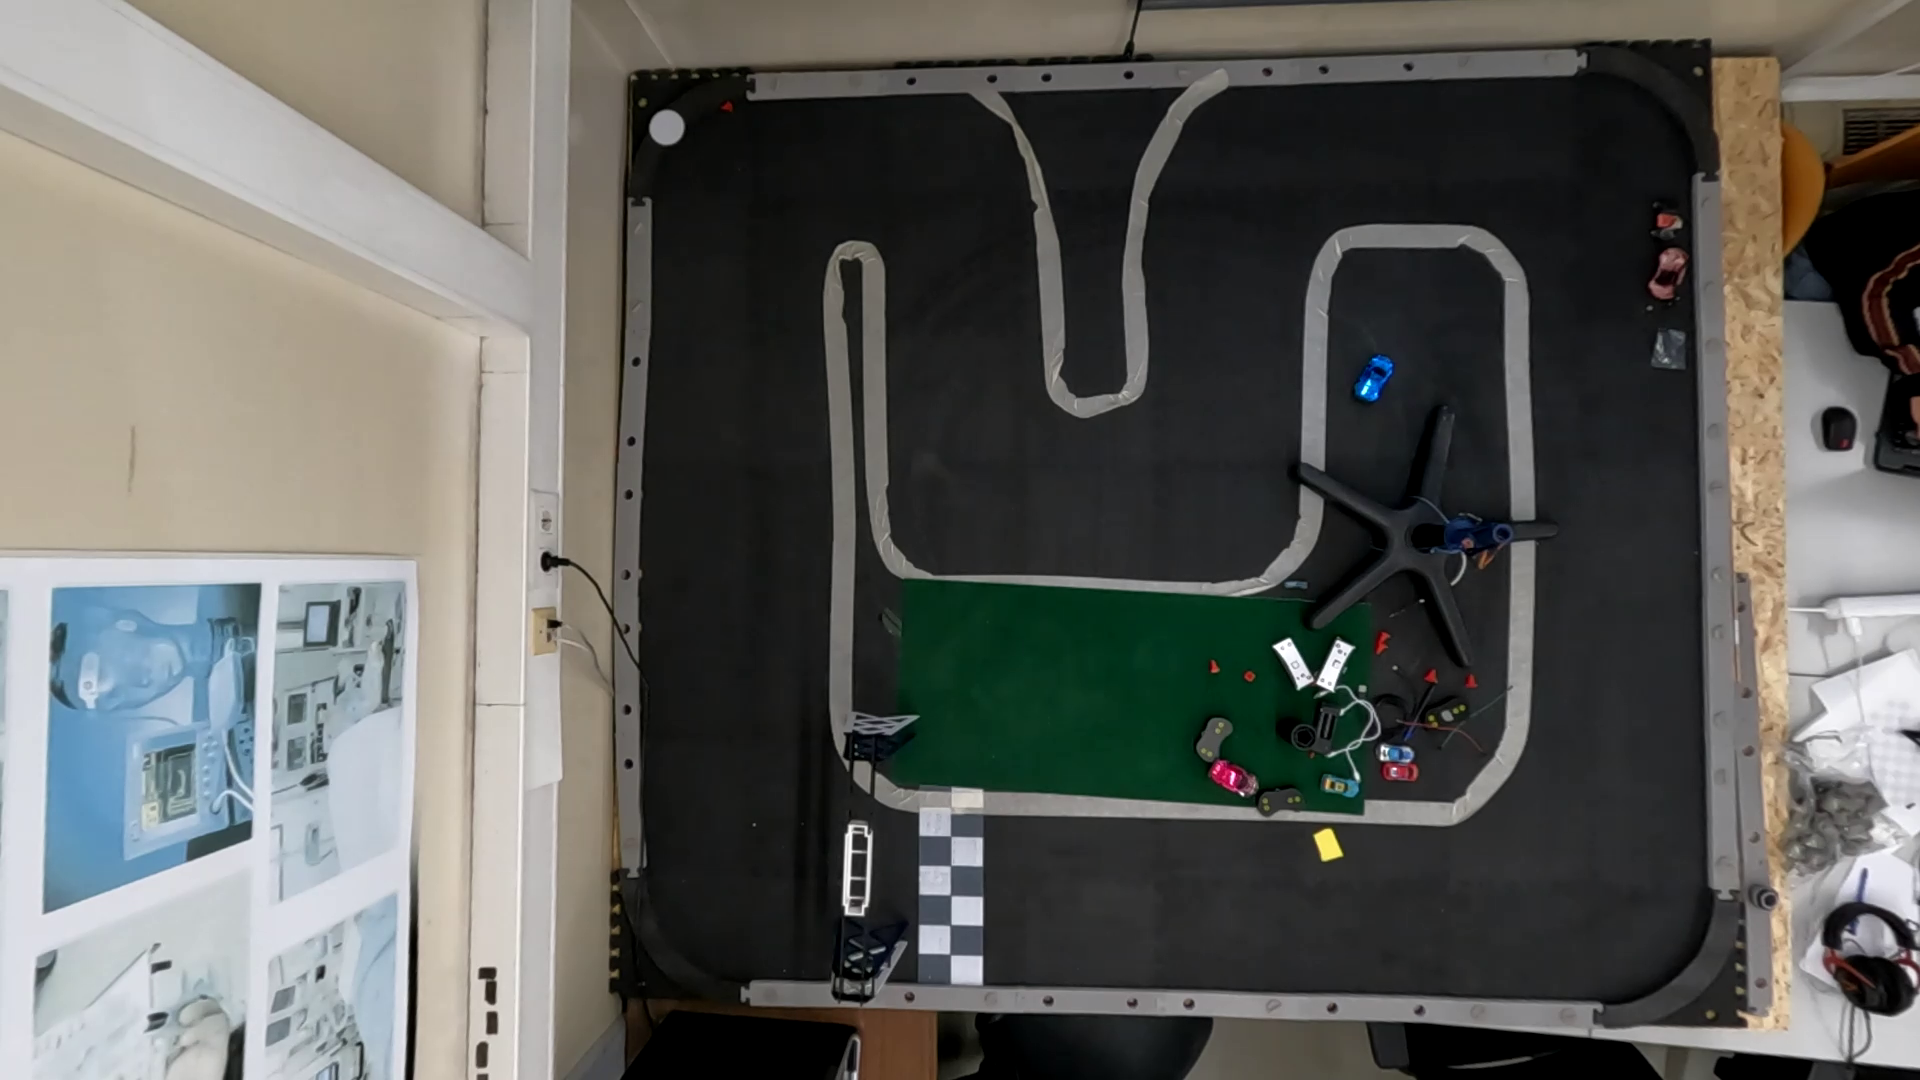
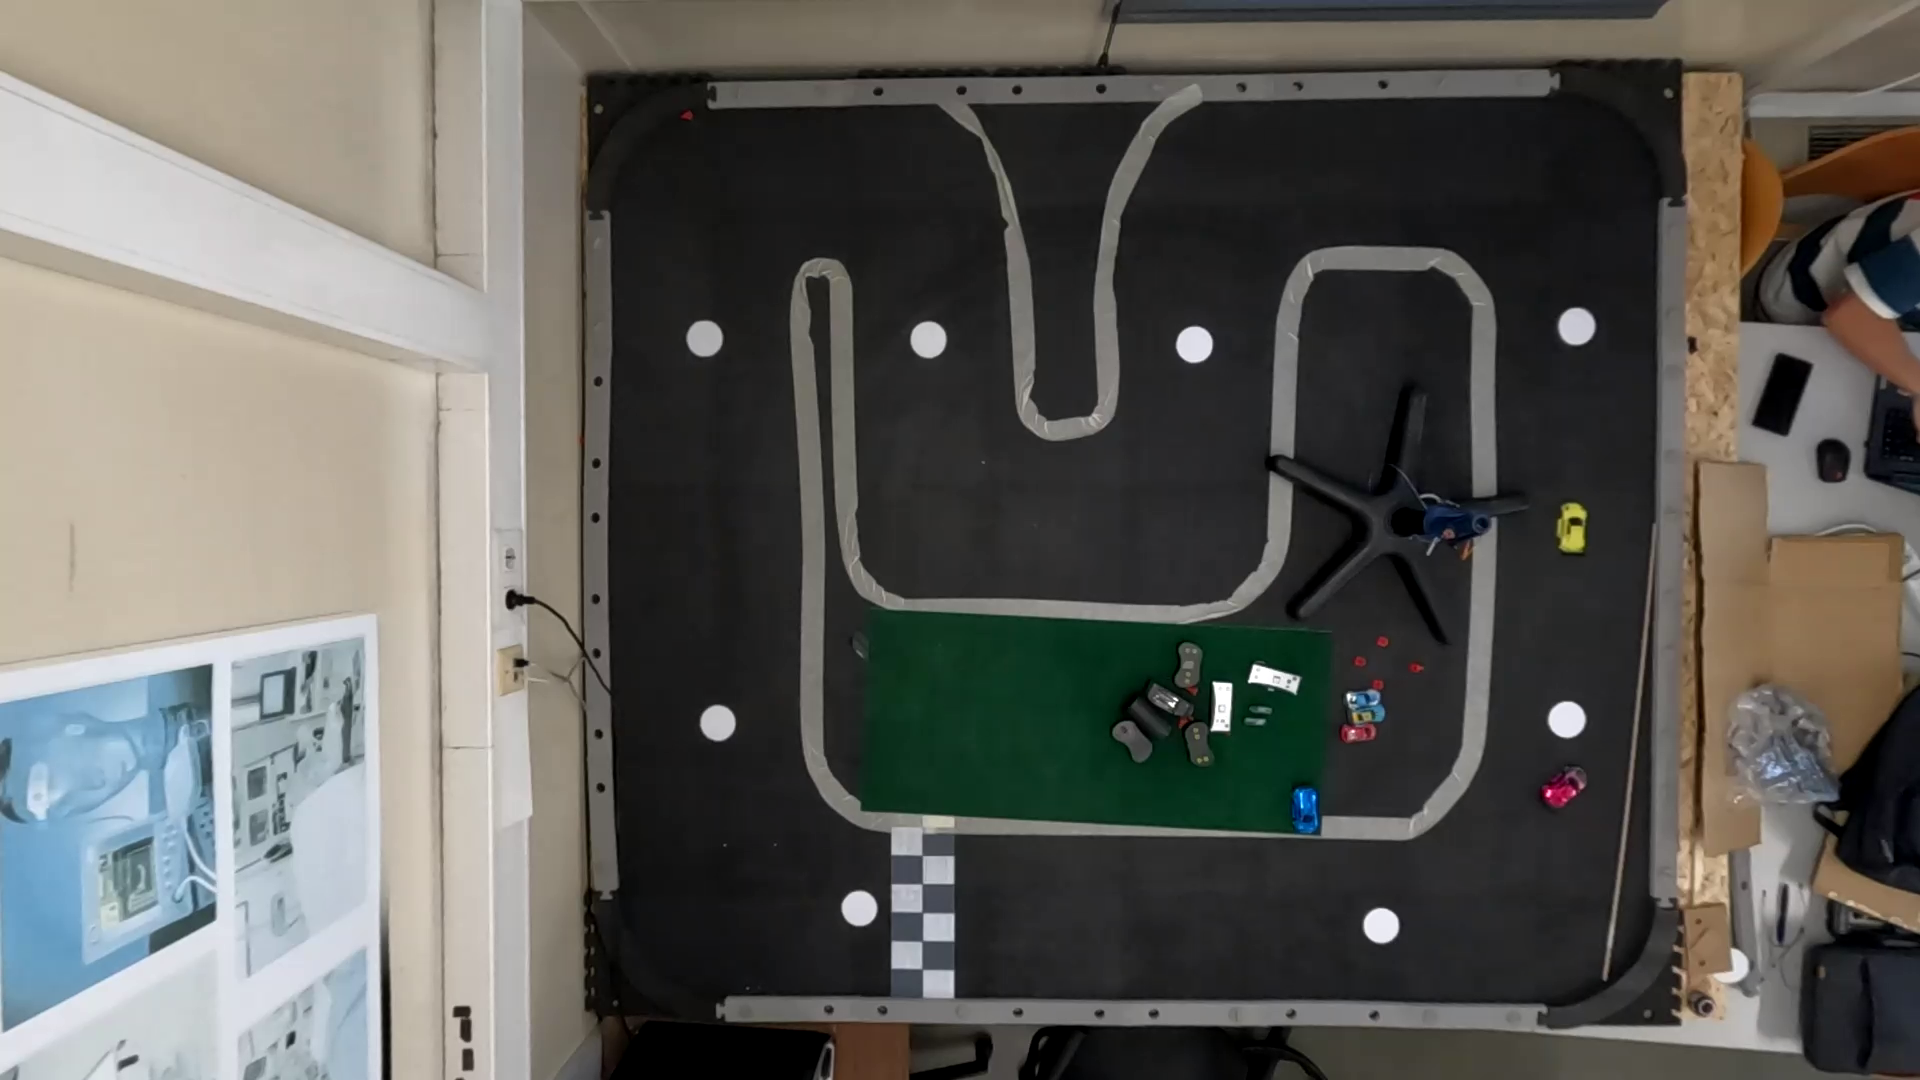
checkpoints

diff --git a/src/Camera/camera.py b/src/Camera/camera.py
@@ -175,7 +175,7 @@ class camera:
                         cX = int(moments["m10"] / moments["m00"])
                         cY = int(moments["m01"] / moments["m00"])
                         if 600 <= cX <= 1650 and cY > 85:  # Check if centroid is within the specified bounds
-                            centroid = (cX, cY)
+                            centroid = np.array([cX, cY])
                             max_contour_area = area
             
             # Draw the centroid on the result image
@@ -228,7 +228,7 @@ class camera:
                         cX = int(moments["m10"] / moments["m00"])
                         cY = int(moments["m01"] / moments["m00"])
                         if 600 <= cX <= 1650 and cY > 85:  # Check if centroid is within the specified bounds
-                            centroid = (cX, cY)
+                            centroid = np.array([cX, cY])
                             max_contour_area = area
 
             # Draw the centroid on the result image
@@ -284,7 +284,7 @@ class camera:
                         cX = int(moments["m10"] / moments["m00"])
                         cY = int(moments["m01"] / moments["m00"])
                         if 600 <= cX <= 1650 and cY > 85:  # Check if centroid is within the specified bounds
-                            centroid = (cX, cY)
+                            centroid = np.array([cX, cY])
                             max_contour_area = area
             
             # Draw the centroid on the result image
@@ -321,10 +321,13 @@ class camera:
         # Combine adjusted results
         combined_result = cv2.add(cv2.add(blue_result_adjusted, yellow_result_adjusted), pink_result_adjusted)
 
-        # Combine centroids
-        all_centroids = [blue_centroids, yellow_centroids, pink_centroids]
+        # Combine centroids. If they are none (0, 0) array is put
+        all_centroids = [blue_centroids if blue_centroids is not None else np.array([0, 0]),
+                         yellow_centroids if yellow_centroids is not None else np.array([0, 0]),
+                         pink_centroids if pink_centroids is not None else np.array([0, 0])]
 
-        return all_centroids, combined_result
+        all_cent = np.array(all_centroids)
+        return all_cent, combined_result
 
 
     def find_circle(self, img):
@@ -355,13 +358,13 @@ class camera:
         )
 
         # List to store the centers of the circles
-        centers = []
+        centers = np.array([])
 
         # If circles are detected, draw them on the original image and store the centers
         if circles is not None:
             circles = np.uint16(np.around(circles))
             for i in circles[0, :]:
-                center = (i[0], i[1])
+                center = np.array([i[0], i[1]])
                 centers.append(center)
                 # Draw the outer circle
                 cv2.circle(img, center, i[2], (0, 255, 0), 2)
@@ -405,40 +408,37 @@ class camera:
 
         #Ratio of pixel to millimeter obtained in pixel2mm.py
         px2mm = 0.6337807227544455
+
+        #Array of all the checkpoints obtained in test.py
+        checkPoints = np.array([(858, 906),
+                                (1380, 926),
+                                (1566, 720),
+                                (1576, 326),
+                                (1194, 344),
+                                (926, 338),
+                                (704, 338),
+                                (716, 722)])
         
-        #racetrack = self.crop_img(self.frame, 600, 80, 1000, 1200)
-        
-        #Check if center was detected. If it was, it uses that value for the rest of the live video
-        '''if initial_center is None:
-            racetrack, initial_center =self.find_circle(racetrack)
-        else:
-            center = initial_center'''
         initial_center = None
         center = None
         
-        # While loop to find the initial center
+        '''#loop to find the initial center
         while initial_center is None:
             _, initial_center = self.find_circle(self.frame)
             if initial_center is not None:
                 center = initial_center
+                break
             else:
                 print("Center not found, retrying...")
-        #print("Circle Center", center)
+        #print("Circle Center", center)'''
         
         centroids, res = self.detect_cars(self.frame)
-        #print("Cars position", centroids)
         
-        center = np.array(center)
         
-        #Ensure centroids are not None before converting to numpy array
-        zero = np.zeros_like(center)
-        valid_centroids = [c if c is not None else zero for c in centroids]
-        centroids = np.array(valid_centroids)
-
-        #Difference between origin coordinates and car coordinates
-        centroids_origin_b = center -  centroids[0]
-        centroids_origin_y = center -  centroids[1]
-        centroids_origin_p = center -  centroids[2]
+        '''#Difference between origin coordinates and car coordinates
+        centroids_origin_b = centroids[0] - center
+        centroids_origin_y = centroids[1] - center
+        centroids_origin_p = centroids[2] - center
 
         #Ratio of pixel to millimeter obtained in pixel2mm.py
         px2mm = 0.6337807227544455
@@ -451,7 +451,7 @@ class camera:
         print("Origin coords: ", center_cm)
         print("Blue car: ", centroids_cm_b)
         print("Yellow car: ", centroids_cm_y)
-        print("Pink car: ", centroids_cm_p)
+        print("Pink car: ", centroids_cm_p)'''
 
         cv2.imshow(self.windowName, res)
 

diff --git a/src/Camera/test.py b/src/Camera/test.py
@@ -6,10 +6,6 @@ import pandas as pd
 #-------------This test.py serves as an aux to test some functions--------------------------------
 
 def detect_cars(image):
-    matrix_reader = pd.read_csv('camera_matrixlinear.txt', delim_whitespace=True, header=None)
-    matrix_coefficients = matrix_reader.to_numpy()
-    dist_reader = pd.read_csv('dist_coeffslinear.txt', delim_whitespace=True, header=None)
-    distortion_coefficients= dist_reader.to_numpy()
     def detect_blue_cars(image):
         # Convert the image to HSV color space
         image_hsv = cv2.cvtColor(image, cv2.COLOR_BGR2HSV)
@@ -234,9 +230,9 @@ def find_circle(img):
         img_closed, 
         cv2.HOUGH_GRADIENT, 
         dp=1.0, 
-        minDist=400, # Adjusted minimum distance between circles
-        param1=50, 
-        param2=30, 
+        minDist=50, # Adjusted minimum distance between circles
+        param1=100, 
+        param2=25, 
         minRadius=10, # Set a reasonable minimum radius
         maxRadius=30 # Set a reasonable maximum radius
     )
@@ -253,7 +249,7 @@ def find_circle(img):
             # Draw the outer circle
             cv2.circle(img, center, i[2], (0, 255, 0), 2)
             # Draw the center of the circle
-            cv2.circle(img, center, 2, (0, 0, 255), 3)
+            #cv2.circle(img, center, 2, (0, 0, 255), 3)
     
     return img, centers
 
@@ -264,26 +260,43 @@ circles, center= find_circle(image)
 centroids, circles = detect_cars(image)
 
 center = np.array(center)
-centroids = np.array(centroids)
+#centroids = np.array(centroids)
+
+cv2.circle(image, center[0], 2, (0, 0, 255), 3) #red
+cv2.circle(image, center[1], 2, (255, 0, 0), 3) #blue
+cv2.circle(image, center[2], 2, (0, 255, 0), 3) #green
+cv2.circle(image, center[3], 2, (0, 0, 0), 3)   #black
+cv2.circle(image, center[4], 2, (255, 255, 255), 3) #white
+cv2.circle(image, center[5], 2, (0, 222, 255), 3) #yellow
+cv2.circle(image, center[6], 2, (230, 0, 255), 3) #pink
+cv2.circle(image, center[7], 2, (230, 255, 0), 3) #baby blue
+
 
 #Difference between car coordinates and Origin coordinates
-centroids_origin = centroids -  center
+#centroids_origin = centroids -  center
 
 #Ratio of pixel to millimeter obtained in pixel2mm.py
 px2mm = 0.6337807227544455
 
-center_cm = (center/px2mm)/10 #centimeter
-centroids_cm = (centroids_origin/px2mm)/10 #centimeter
+#center_cm = (center/px2mm)/10 #centimeter
+#centroids_cm = (centroids_origin/px2mm)/10 #centimeter
 
-print("Origin coords: ", center_cm)
-print("Blue car: ", centroids_cm[0])
+'''print("Blue car: ", centroids_cm[0])
 print("Yellow car: ", centroids_cm[1])
-print("Pink car: ", centroids_cm[2])
+print("Pink car: ", centroids_cm[2])'''
+circles_organized = np.array([center[5],
+                              center[4],
+                              center[3],
+                              center[1],
+                              center[6],
+                              center[7],
+                              center[0],
+                              center[2]])
+
+print("Checkpoints:", circles_organized)
 
 im = cv2.resize(circles, (960, 540))
 cv2.imshow("Output", im)
 cv2.waitKey(0)
 cv2.destroyAllWindows()
-
-
 

diff --git a/src/Camera/test2.py b/src/Camera/test2.py
@@ -11,11 +11,22 @@ def angle_between(v1, v2):
     return angle_degrees
 
 
-v1 = np.array([1,1])
-v2 = np.array([0, 1, 0])
+v1 = np.array([2,3])
+v2 = None
 
 my_lst = [(1,2), (1,8), (3,5)]
 array = np.array(my_lst)
 
-coords = array - v1
-print(array[1][0])
+
+
+checkPoints = np.array([(858, 906),
+                        (1380, 926),
+                        (1566, 720),
+                        (1576, 326),
+                        (1194, 344),
+                        (926, 338),
+                        (704, 338),
+                        (716, 722)])
+
+print(len(checkPoints))
+
